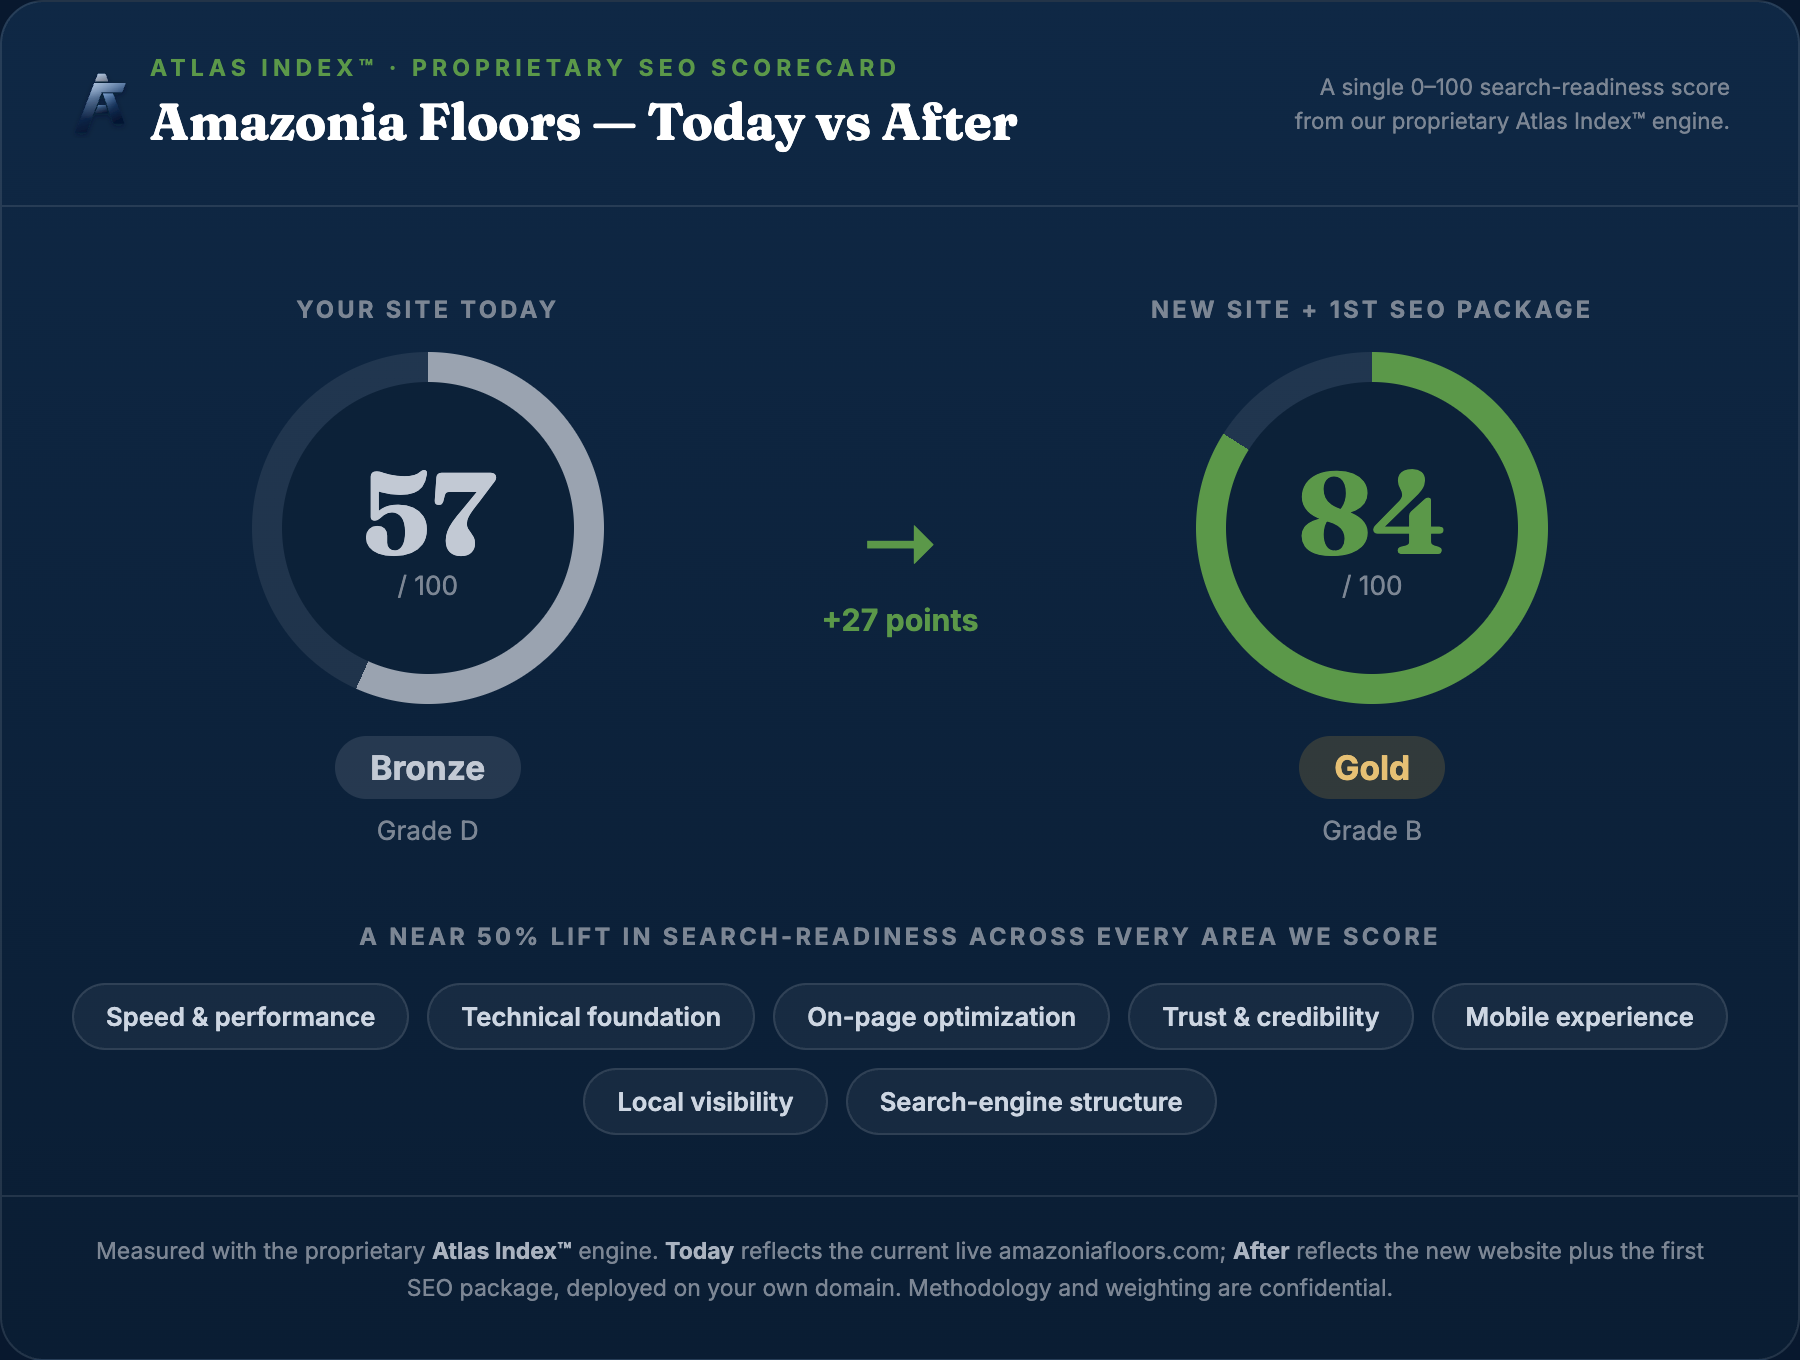
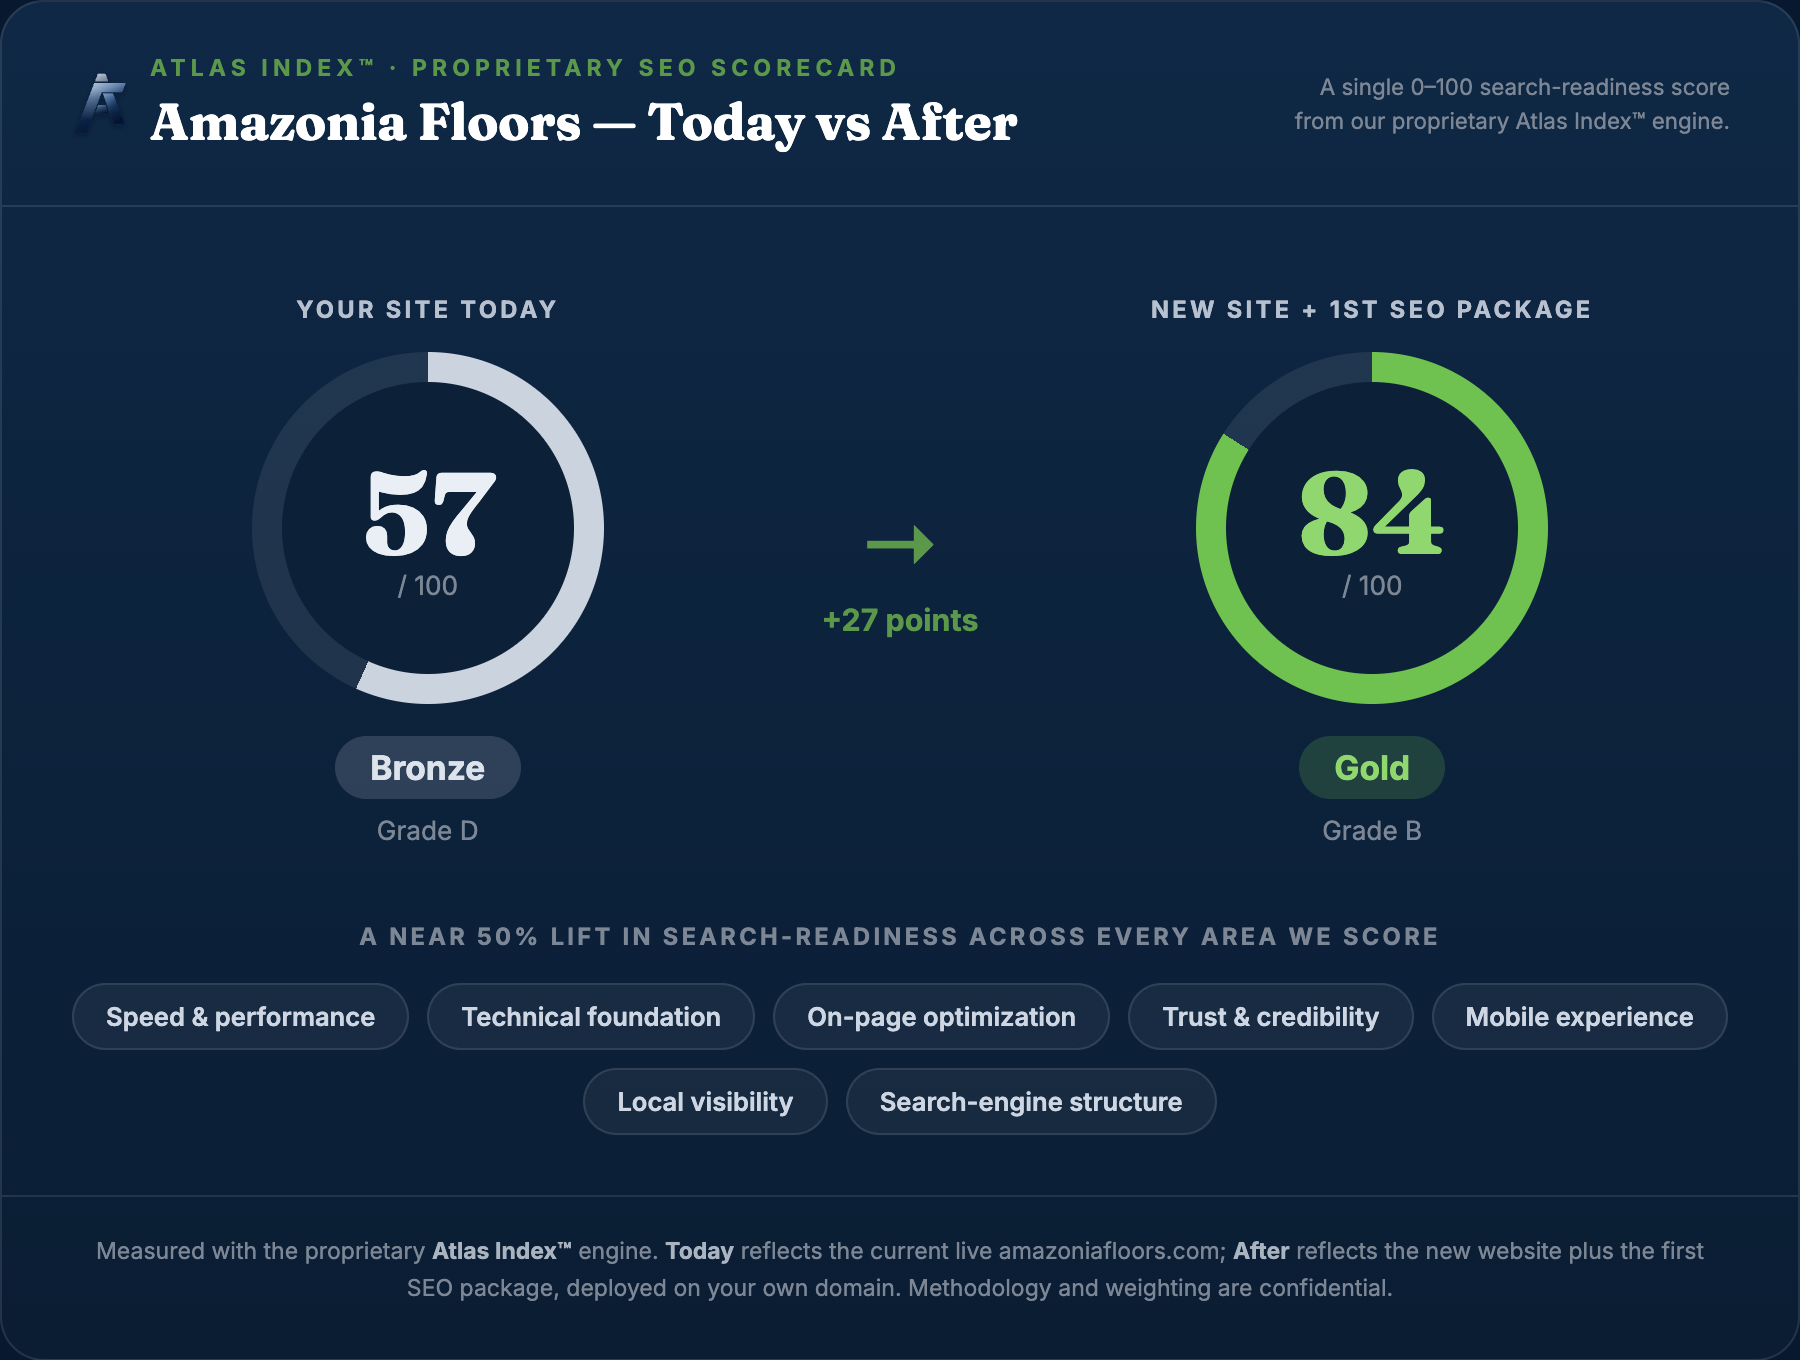
Atlas card contrast (lighter gray / vibrant green) + revenue-potential section (cited CTR stat, illustrative model)

diff --git a/proposal.html b/proposal.html
@@ -84,7 +84,33 @@ h1,h2,h3{font-family:'Fraunces',serif;color:var(--navy);line-height:1.12}
 .success p{color:var(--muted);font-size:.95rem}
 .success .sigline{font-family:'Fraunces';font-size:1.6rem;color:var(--navy);border-bottom:2px solid var(--line);display:inline-block;padding:6px 30px 2px;margin:14px 0 4px}
 .foot{padding:24px 0;text-align:center;font-size:.8rem;color:var(--muted)}
-@media(max-width:680px){.compare,.grid2,.split,.signcard .row{grid-template-columns:1fr}.timeline{flex-direction:column}.shot{height:200px}}
+.rev{background:var(--cream)}
+.revstats{display:grid;grid-template-columns:repeat(3,1fr);gap:14px;margin:22px 0 30px}
+.revstat{background:#fff;border:1px solid var(--line);border-radius:14px;padding:18px;text-align:center}
+.revstat b{font-family:'Fraunces';font-size:1.9rem;color:var(--navy);display:block;line-height:1}
+.revstat span{font-size:.8rem;color:var(--muted);display:block;margin-top:6px}
+.rev-grid{display:grid;grid-template-columns:1fr 1fr;gap:24px;align-items:stretch}
+.rev-calc{background:#fff;border:1px solid var(--line);border-radius:18px;padding:26px}
+.rev-calc h3{font-size:1.2rem;margin-bottom:2px}
+.rev-calc .note{font-size:.8rem;color:var(--muted);margin-bottom:16px}
+.rev-rows{list-style:none}
+.rev-rows li{display:flex;justify-content:space-between;align-items:center;padding:11px 0;border-bottom:1px dashed var(--line);font-size:.95rem}
+.rev-rows li span{color:#374151}.rev-rows li b{color:var(--navy);font-weight:700}
+.rev-rows li.total{border-bottom:0;border-top:2px solid var(--navy);margin-top:6px;padding-top:14px}
+.rev-rows li.total b{color:var(--green-deep);font-size:1.25rem;font-family:'Fraunces'}
+.rev-year{margin-top:14px;background:linear-gradient(135deg,var(--green),var(--green-deep));color:#fff;border-radius:12px;padding:14px;text-align:center;font-family:'Fraunces';font-size:1.3rem;font-weight:700}
+.rev-vis{background:#0f2845;border-radius:18px;padding:26px;display:flex;flex-direction:column}
+.rev-vis h3{color:#fff;font-size:1.1rem;margin-bottom:4px}
+.rev-vis .sub{color:#9aa9bd;font-size:.78rem;margin-bottom:auto}
+.chart{display:flex;align-items:flex-end;gap:14px;height:180px;margin-top:20px}
+.chart .col{flex:1;display:flex;flex-direction:column;align-items:center;gap:8px;height:100%;justify-content:flex-end}
+.chart .col i{width:100%;border-radius:8px 8px 0 0;background:linear-gradient(180deg,#7cc063,#467a37);display:block}
+.chart .col.now i{background:linear-gradient(180deg,#5a6b7e,#3a4655)}
+.chart .col em{font-style:normal;color:#cdd6e2;font-size:.72rem}
+.chart .col .amt{color:#fff;font-weight:700;font-size:.8rem}
+.footnote{font-size:.74rem;color:var(--muted);margin-top:22px;line-height:1.6}
+.footnote a{color:var(--green-deep)}
+@media(max-width:680px){.compare,.grid2,.split,.signcard .row,.rev-grid{grid-template-columns:1fr}.revstats{grid-template-columns:1fr}.timeline{flex-direction:column}.shot{height:200px}}
 </style></head><body>
 
 <div class="topnav"><div class="wrap">
@@ -163,6 +189,43 @@ h1,h2,h3{font-family:'Fraunces',serif;color:var(--navy);line-height:1.12}
     <h2 style="color:#fff;font-size:clamp(1.7rem,4vw,2.5rem);margin-bottom:8px">From Bronze to Gold on Google</h2>
     <p style="color:#9aa9bd;max-width:640px;margin-bottom:26px">We scored your current site with our Atlas Index™ engine, then projected the new build plus your first SEO package on your own domain. The result: a jump from <strong style="color:#fff">Bronze (56.7)</strong> to a projected <strong style="color:#7cc063">Gold (≈84)</strong>.</p>
     <img src="Atlas-Today-vs-After.png" alt="Atlas Index SEO scorecard — Amazonia Floors today (56.7, Bronze) versus after the new website and first SEO package (projected 84, Gold)" style="width:100%;border-radius:16px;box-shadow:0 24px 60px -28px rgba(0,0,0,.7)">
+  </div>
+</section>
+
+<section class="sec rev" id="revenue">
+  <div class="wrap">
+    <div class="sec-t">What this can mean for your business</div>
+    <h2 style="font-size:clamp(1.7rem,4vw,2.4rem)">More visibility → more estimate calls</h2>
+    <p class="lead">A higher score isn't vanity — it's about getting Amazonia in front of the homeowners already searching <em>"hardwood floor installation Baltimore."</em> On Google, the <b>top 3 results capture about 68% of all clicks</b>, and below the top 5 it drops under 5%. Climbing the rankings is where the leads are.</p>
+    <div class="revstats">
+      <div class="revstat"><b>~68%</b><span>of clicks go to the top 3 Google results</span></div>
+      <div class="revstat"><b>&lt;5%</b><span>of clicks for sites below the top 5</span></div>
+      <div class="revstat"><b>57 → 84</b><span>your Atlas score, Bronze → Gold</span></div>
+    </div>
+    <div class="rev-grid">
+      <div class="rev-calc">
+        <h3>What a few extra leads is worth</h3>
+        <p class="note">Illustrative — plug in your own numbers. Not a guarantee of results.</p>
+        <ul class="rev-rows">
+          <li><span>Extra estimate requests / month</span><b>+5</b></li>
+          <li><span>Jobs won (≈40% close rate)</span><b>2</b></li>
+          <li><span>Average project value</span><b>$3,500</b></li>
+          <li class="total"><span>Potential new revenue</span><b>~$7,000/mo</b></li>
+        </ul>
+        <div class="rev-year">≈ $84,000 / year in new work</div>
+      </div>
+      <div class="rev-vis">
+        <h3>Illustrative new-work ramp</h3>
+        <div class="sub">As rankings build over the first year (example)</div>
+        <div class="chart">
+          <div class="col now"><span class="amt">$0</span><i style="height:8%"></i><em>Now</em></div>
+          <div class="col"><span class="amt">$3k</span><i style="height:30%"></i><em>Mo 3</em></div>
+          <div class="col"><span class="amt">$5k</span><i style="height:55%"></i><em>Mo 6</em></div>
+          <div class="col"><span class="amt">$7k+</span><i style="height:85%"></i><em>Mo 12</em></div>
+        </div>
+      </div>
+    </div>
+    <p class="footnote">Click-through-rate by Google ranking position: <a href="https://firstpagesage.com/reports/google-click-through-rates-ctrs-by-ranking-position/">First Page Sage</a> &amp; <a href="https://backlinko.com/google-ctr-stats">Backlinko</a> (2025–2026). Revenue figures above are an <b>illustrative scenario</b> using adjustable assumptions (lead volume, close rate, job value) — actual results vary and are not guaranteed.</p>
   </div>
 </section>
 

diff --git a/atlas-comparison.html b/atlas-comparison.html
@@ -14,16 +14,17 @@ body{font-family:'Inter',sans-serif;background:#08182e;color:#fff;padding:34px}
 .brand{display:flex;align-items:center;gap:10px}.brand img{width:30px}
 .scores{display:grid;grid-template-columns:1fr auto 1fr;align-items:center;gap:18px;padding:44px 34px 38px}
 .score{text-align:center}
-.score .lbl{font-size:.74rem;letter-spacing:.14em;text-transform:uppercase;color:var(--muted);font-weight:700;margin-bottom:14px}
+.score .lbl{font-size:.74rem;letter-spacing:.14em;text-transform:uppercase;color:#b6c0ce;font-weight:700;margin-bottom:14px}
 .ring{width:176px;height:176px;border-radius:50%;display:grid;place-items:center;margin:0 auto}
 .ring .num{font-family:'Fraunces';font-size:3.6rem;font-weight:700;line-height:1}
 .ring .of{font-size:.82rem;color:var(--muted)}
-.today .ring{background:conic-gradient(#9aa3b0 0 56.7%,rgba(255,255,255,.08) 0)}
-.after .ring{background:conic-gradient(var(--green) 0 84%,rgba(255,255,255,.08) 0)}
+.today .ring{background:conic-gradient(#cbd3df 0 56.7%,rgba(255,255,255,.08) 0)}
+.after .ring{background:conic-gradient(#6fc24f 0 84%,rgba(255,255,255,.08) 0)}
 .ring .inner{width:146px;height:146px;border-radius:50%;background:#0c2138;display:grid;place-items:center}
 .tier{margin-top:16px;font-weight:700;font-size:1.05rem;padding:.35rem 1.1rem;border-radius:999px;display:inline-block}
-.tier.bronze{background:rgba(154,163,176,.18);color:#c2c9d4}
-.tier.gold{background:rgba(199,154,59,.2);color:#e6c074}
+.tier.bronze{background:rgba(180,190,205,.2);color:#dde3eb}
+.tier.gold{background:rgba(111,194,79,.2);color:#8fd76e}
+.grade{color:#97a2b1}
 .grade{font-size:.82rem;color:var(--muted);margin-top:8px}
 .arrow{font-size:2.6rem;color:var(--green);font-weight:700;text-align:center;line-height:1}
 .delta{text-align:center;font-size:.95rem;color:var(--green);font-weight:700;margin-top:8px;white-space:nowrap}
@@ -44,13 +45,13 @@ body{font-family:'Inter',sans-serif;background:#08182e;color:#fff;padding:34px}
   <div class="scores">
     <div class="score today">
       <div class="lbl">Your site today</div>
-      <div class="ring"><div class="inner"><div><div class="num" style="color:#c2c9d4">57</div><div class="of">/ 100</div></div></div></div>
+      <div class="ring"><div class="inner"><div><div class="num" style="color:#eaeff5">57</div><div class="of">/ 100</div></div></div></div>
       <div class="tier bronze">Bronze</div><div class="grade">Grade D</div>
     </div>
     <div><div class="arrow">→</div><div class="delta">+27 points</div></div>
     <div class="score after">
       <div class="lbl">New site + 1st SEO package</div>
-      <div class="ring"><div class="inner"><div><div class="num" style="color:#5B9849">84</div><div class="of">/ 100</div></div></div></div>
+      <div class="ring"><div class="inner"><div><div class="num" style="color:#8fd76e">84</div><div class="of">/ 100</div></div></div></div>
       <div class="tier gold">Gold</div><div class="grade">Grade B</div>
     </div>
   </div>
